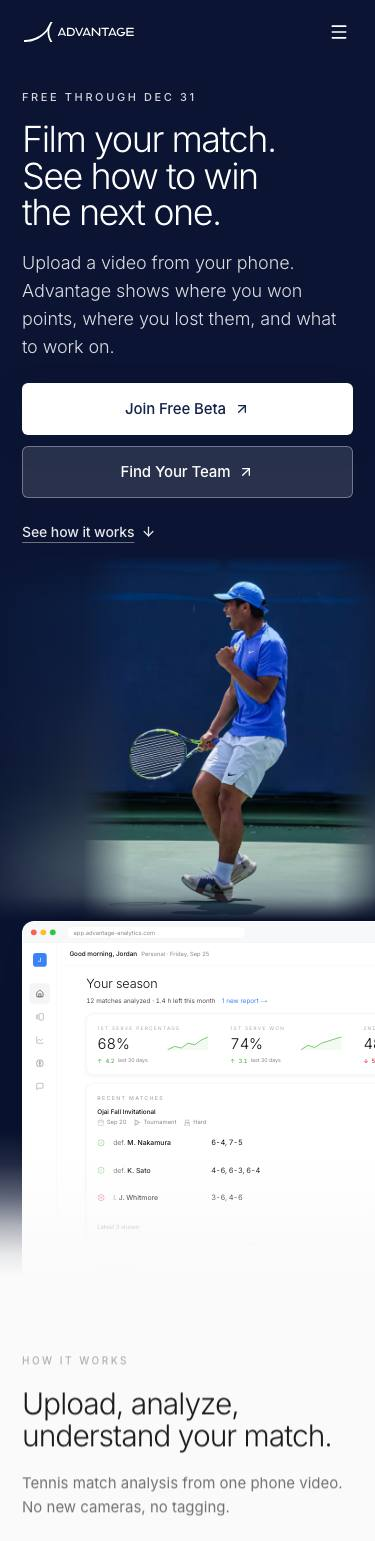
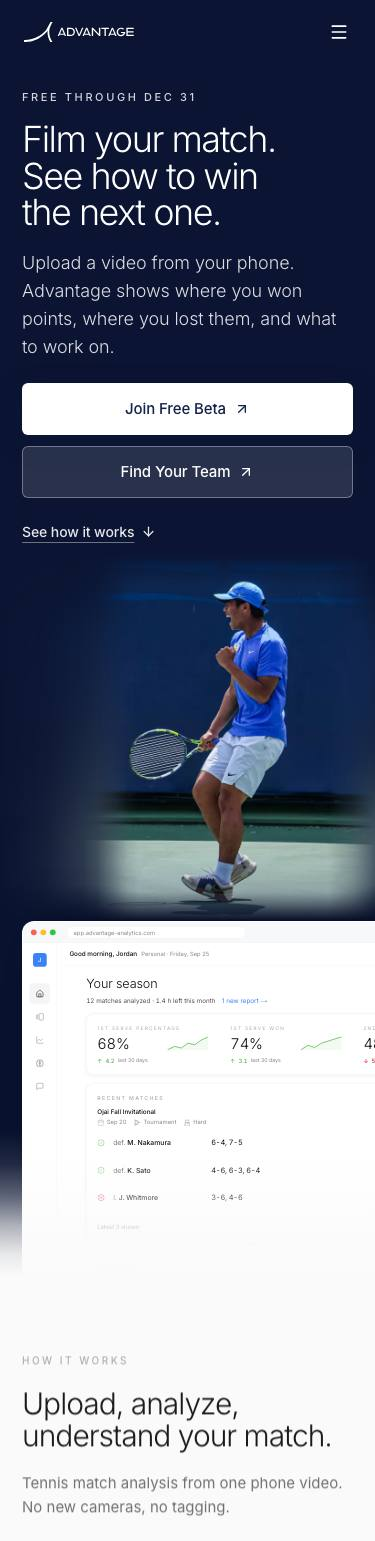
Soften the hero photo's fade into the copy
Drop the full-width blurred extension and its navy wash. The blurred copy
is now a halo around the photo that thins out on an eased ramp before it
reaches the headline, and the photo's own edges fade the same way.

Changed region(s): [[0.0293, 0.5295, 0.3227, 0.5918]]

diff --git a/src/app/perspective.css b/src/app/perspective.css
@@ -727,26 +727,29 @@ section.band.final-band { position: relative; overflow: hidden; padding: 130px 0
 .hh-more:hover { color: #fff; text-decoration-color: #fff; }
 
 /* The scene: the tier from just under the nav to the screen's top edge.
-   Two layers of the same photo. .hh-ext stretches it across the full width
-   and blurs it (scaled a little sideways so the blur has no soft edge), so the wall and the court run out to the left at the same
-   heights they have in the picture; a navy wash over it keeps the copy side
-   dark. .hh-photo is the picture itself, whole, at its own shape
-   (aspect-ratio is set inline from the photo slot): its height is the
-   scene's and its width follows, so it is never cropped. Its side edges are
-   masked away, so it melts into its own blurred extension. */
+   Two layers of the same photo. .hh-photo is the picture itself, whole, at
+   its own shape (aspect-ratio is set inline from the photo slot): its height
+   is the scene's and its width follows, so it is never cropped. .hh-ext is
+   the same picture stretched across the tier and heavily blurred, a soft
+   halo of the wall and the court around it. Both are masked on eased ramps:
+   the photo's edges melt into the halo, and the halo thins out to nothing
+   as it reaches the copy, so the picture fades into the navy the type sits
+   on instead of stopping at an edge. */
 .hh-top { position: relative; }
 .hh-scene { position: absolute; z-index: 0; left: 0; right: 0; top: 76px; bottom: var(--hh-lap); pointer-events: none; }
-/* The extension fades out at its top (toward the nav) and its bottom (so it
-   has no edge in the gutters beside the screen); the wash rides inside it. */
 .hh-ext { position: absolute; inset: 0; overflow: hidden;
-  -webkit-mask-image: linear-gradient(to bottom, transparent 0%, #000 12%, #000 93%, transparent 100%);
-  mask-image: linear-gradient(to bottom, transparent 0%, #000 12%, #000 93%, transparent 100%); }
-.hh-ext img { object-fit: fill; filter: blur(40px) saturate(.9); scale: 1.16 1; }
-.hh-ext::after { content: ""; position: absolute; inset: 0;
-  background: linear-gradient(90deg, rgba(11,21,51,.94) 0%, rgba(11,21,51,.86) 42%, rgba(11,21,51,.45) 62%, rgba(11,21,51,.12) 78%, rgba(11,21,51,.12) 100%); }
+  /* --hh-fade: the halo's horizontal ramp, clear on the copy side. */
+  --hh-fade: linear-gradient(to right, transparent 34%, rgba(0,0,0,.03) 40%, rgba(0,0,0,.1) 46%, rgba(0,0,0,.24) 52%,
+    rgba(0,0,0,.45) 58%, rgba(0,0,0,.68) 64%, rgba(0,0,0,.88) 70%, #000 76%);
+  --m: var(--hh-fade),
+       linear-gradient(to bottom, transparent 0%, rgba(0,0,0,.12) 6%, rgba(0,0,0,.45) 12%, rgba(0,0,0,.85) 19%, #000 24%, #000 90%, transparent 100%);
+  -webkit-mask-image: var(--m); mask-image: var(--m);
+  -webkit-mask-composite: source-in; mask-composite: intersect; }
+.hh-ext img { object-fit: fill; filter: blur(56px) saturate(.9); scale: 1.24 1; }
 .hh-photo { position: absolute; z-index: 1; top: 0; bottom: 0; right: max(0px, calc(var(--hh-gutter) - 80px));
-  --m: linear-gradient(to right, transparent 0%, #000 16%, #000 86%, transparent 100%),
-       linear-gradient(to bottom, transparent 0%, #000 6%, #000 93%, transparent 100%);
+  --m: linear-gradient(to right, transparent 0%, rgba(0,0,0,.1) 5%, rgba(0,0,0,.42) 10%, rgba(0,0,0,.82) 15%, #000 19%,
+         #000 84%, rgba(0,0,0,.6) 92%, transparent 100%),
+       linear-gradient(to bottom, transparent 0%, rgba(0,0,0,.5) 4%, #000 8%, #000 92%, transparent 100%);
   -webkit-mask-image: var(--m); mask-image: var(--m);
   -webkit-mask-composite: source-in; mask-composite: intersect; }
 .hh-photo img { object-fit: cover; }
@@ -786,7 +789,7 @@ section.band.final-band { position: relative; overflow: hidden; padding: 130px 0
   .hh-copy { gap: 18px; }
   .hh-title { font-size: 44px; }
   .hh-scene { position: relative; top: auto; bottom: auto; margin-top: 8px; }
-  .hh-ext::after { background: linear-gradient(90deg, rgba(11,21,51,.8) 0%, rgba(11,21,51,.3) 40%, rgba(11,21,51,.1) 100%); }
+  .hh-ext { --hh-fade: linear-gradient(to right, transparent 0%, rgba(0,0,0,.12) 12%, rgba(0,0,0,.5) 26%, #000 44%); }
   .hh-photo { position: relative; top: auto; right: auto; bottom: auto; width: min(78%, 380px); margin-left: auto; }
   .hh-screen { width: 150%; border-radius: 12px 12px 0 0; }
   .hh::after { height: clamp(150px, 40vw, 300px); }

diff --git a/src/components/perspective/hero.tsx b/src/components/perspective/hero.tsx
@@ -11,8 +11,8 @@ import { BETA_END_SHORT } from "@/lib/pilot";
 /* ===========================================================
    HERO PHOTO SLOT
    A portrait photo (4:5), shown whole, never cropped, on the right of
-   the hero. A blurred, stretched copy of it runs out to the left behind
-   the copy, so the picture has no frame and its background carries on. To swap: drop another
+   the hero. A blurred copy of it sits around it as a soft halo that
+   thins out to nothing toward the copy, so the picture has no frame. To swap: drop another
    photo at public/assets/marketing/hero-*.jpg, change this one import,
    rewrite `alt`, and set `ratio` to the new file's width / height. Keep
    the subject out of the outer ~10% of the frame: that is the fade.
@@ -45,9 +45,9 @@ const HERO_SUB =
    Human hero — one responsive composition, two tiers.
 
    Top: the copy on navy, and beside it the photo, standing on the
-   screen's top edge and shown whole. A blurred copy of it extends its
-   background across the tier under a navy wash, so the player is never
-   cut off and nothing sharp sits behind the type.
+   screen's top edge and shown whole. A blurred copy of it surrounds it
+   and fades out toward the copy, so the player is never cut off and the
+   picture melts into the navy the type sits on.
    Below both: the dashboard on a computer screen, running the container's
    width, fading out into the next section so the hero has no hard bottom
    edge.
@@ -135,8 +135,8 @@ export function PerspectiveHero() {
           </div>
         </div>
         <div className="hh-scene">
-          {/* The same photo again, stretched across the tier and blurred: it
-              carries the wall and the court out to the left, behind the copy. */}
+          {/* The same photo again, stretched and blurred: a soft halo of the
+              wall and the court that fades out before it reaches the copy. */}
           <div className="hh-ext" aria-hidden="true">
             <Image src={HERO_PHOTO.src} alt="" fill sizes="320px" />
           </div>

diff --git a/assets/PHOTO_SHOTLIST.md b/assets/PHOTO_SHOTLIST.md
@@ -8,13 +8,13 @@ the slot is at the top of `src/components/perspective/hero.tsx`.
 
 - The photo is shown **whole, at its own shape**, on the right of the hero. It
   is never cropped, so the player stays fully in frame, head to shoes.
-- A **blurred, stretched copy of the same photo** runs across the rest of the
-  hero behind the headline, under a navy wash. The photo's own edges are faded
-  into it, so there is no frame. Keep the subject out of the outer ~12% of
+- A **blurred copy of the same photo** sits around it as a soft halo and fades
+  out toward the headline. The photo's own edges are faded into it, so there
+  is no frame. Keep the subject out of the outer ~12% of
   the frame on every side: that is the fade.
 - This works best when the **background is dark and simple** (a windscreen, a
-  wall, an evening sky). A bright or busy background will show through behind
-  the headline.
+  wall, an evening sky). A bright or busy background makes the fade into the navy
+  much more visible.
 - **Desktop**: copy on the left, photo on the right, as tall as the top of
   the hero. **Mobile**: copy first, then the photo, right-aligned.
 - So: **portrait (4:5), full body with room around it, dark plain backdrop.**

diff --git a/DESIGN.md b/DESIGN.md
@@ -4,7 +4,7 @@ Visual system for the Advantage landing page, vendored from the `advantage-dashb
 
 ## Visual Theme
 
-Light, clean, high-clarity — Stripe/Linear tech-minimal. One deliberate dark band (final CTA) for contrast as punctuation. Borders for structure, soft shadows for elevation, generous whitespace. Photography of real players is the hero imagery: a photo on the hero's right, shown whole, with a blurred copy of it carrying its background out behind the copy under a navy wash so the white type stays clear; product UI sits under it on a computer screen that fades into the next section, and as the proof further down the page.
+Light, clean, high-clarity — Stripe/Linear tech-minimal. One deliberate dark band (final CTA) for contrast as punctuation. Borders for structure, soft shadows for elevation, generous whitespace. Photography of real players is the hero imagery: a photo on the hero's right, shown whole, its edges fading through a soft blurred halo into the navy the white type sits on; product UI sits under it on a computer screen that fades into the next section, and as the proof further down the page.
 
 ## Color
 

diff --git a/review/landing-human-hero/SUMMARY.md b/review/landing-human-hero/SUMMARY.md
@@ -10,9 +10,10 @@ than create `landing-human-hero`). Nothing pushed or deployed; `main` untouched.
   with a photo beside it (`public/assets/marketing/hero-fist-pump.jpg`, the
   celebrating-player photo you supplied).
 - The photo is on the right and shown whole at its own 4:5 shape, so the
-  player is never cropped. A blurred, stretched copy of it carries the wall
-  and the court out to the left behind the copy, under a navy wash; the
-  photo's edges fade into that, so it has no frame.
+  player is never cropped. A blurred copy of it sits around it as a soft
+  halo that thins out to nothing before it reaches the copy; the photo's
+  edges fade into that on eased ramps, so it melts into the navy the text
+  sits on and has no frame.
 - Under the copy and the photo, the dashboard sits on a computer screen (a
   browser window, full container width) that fades out into the next section.
   On phones it is drawn wider than the viewport so it stays legible.
